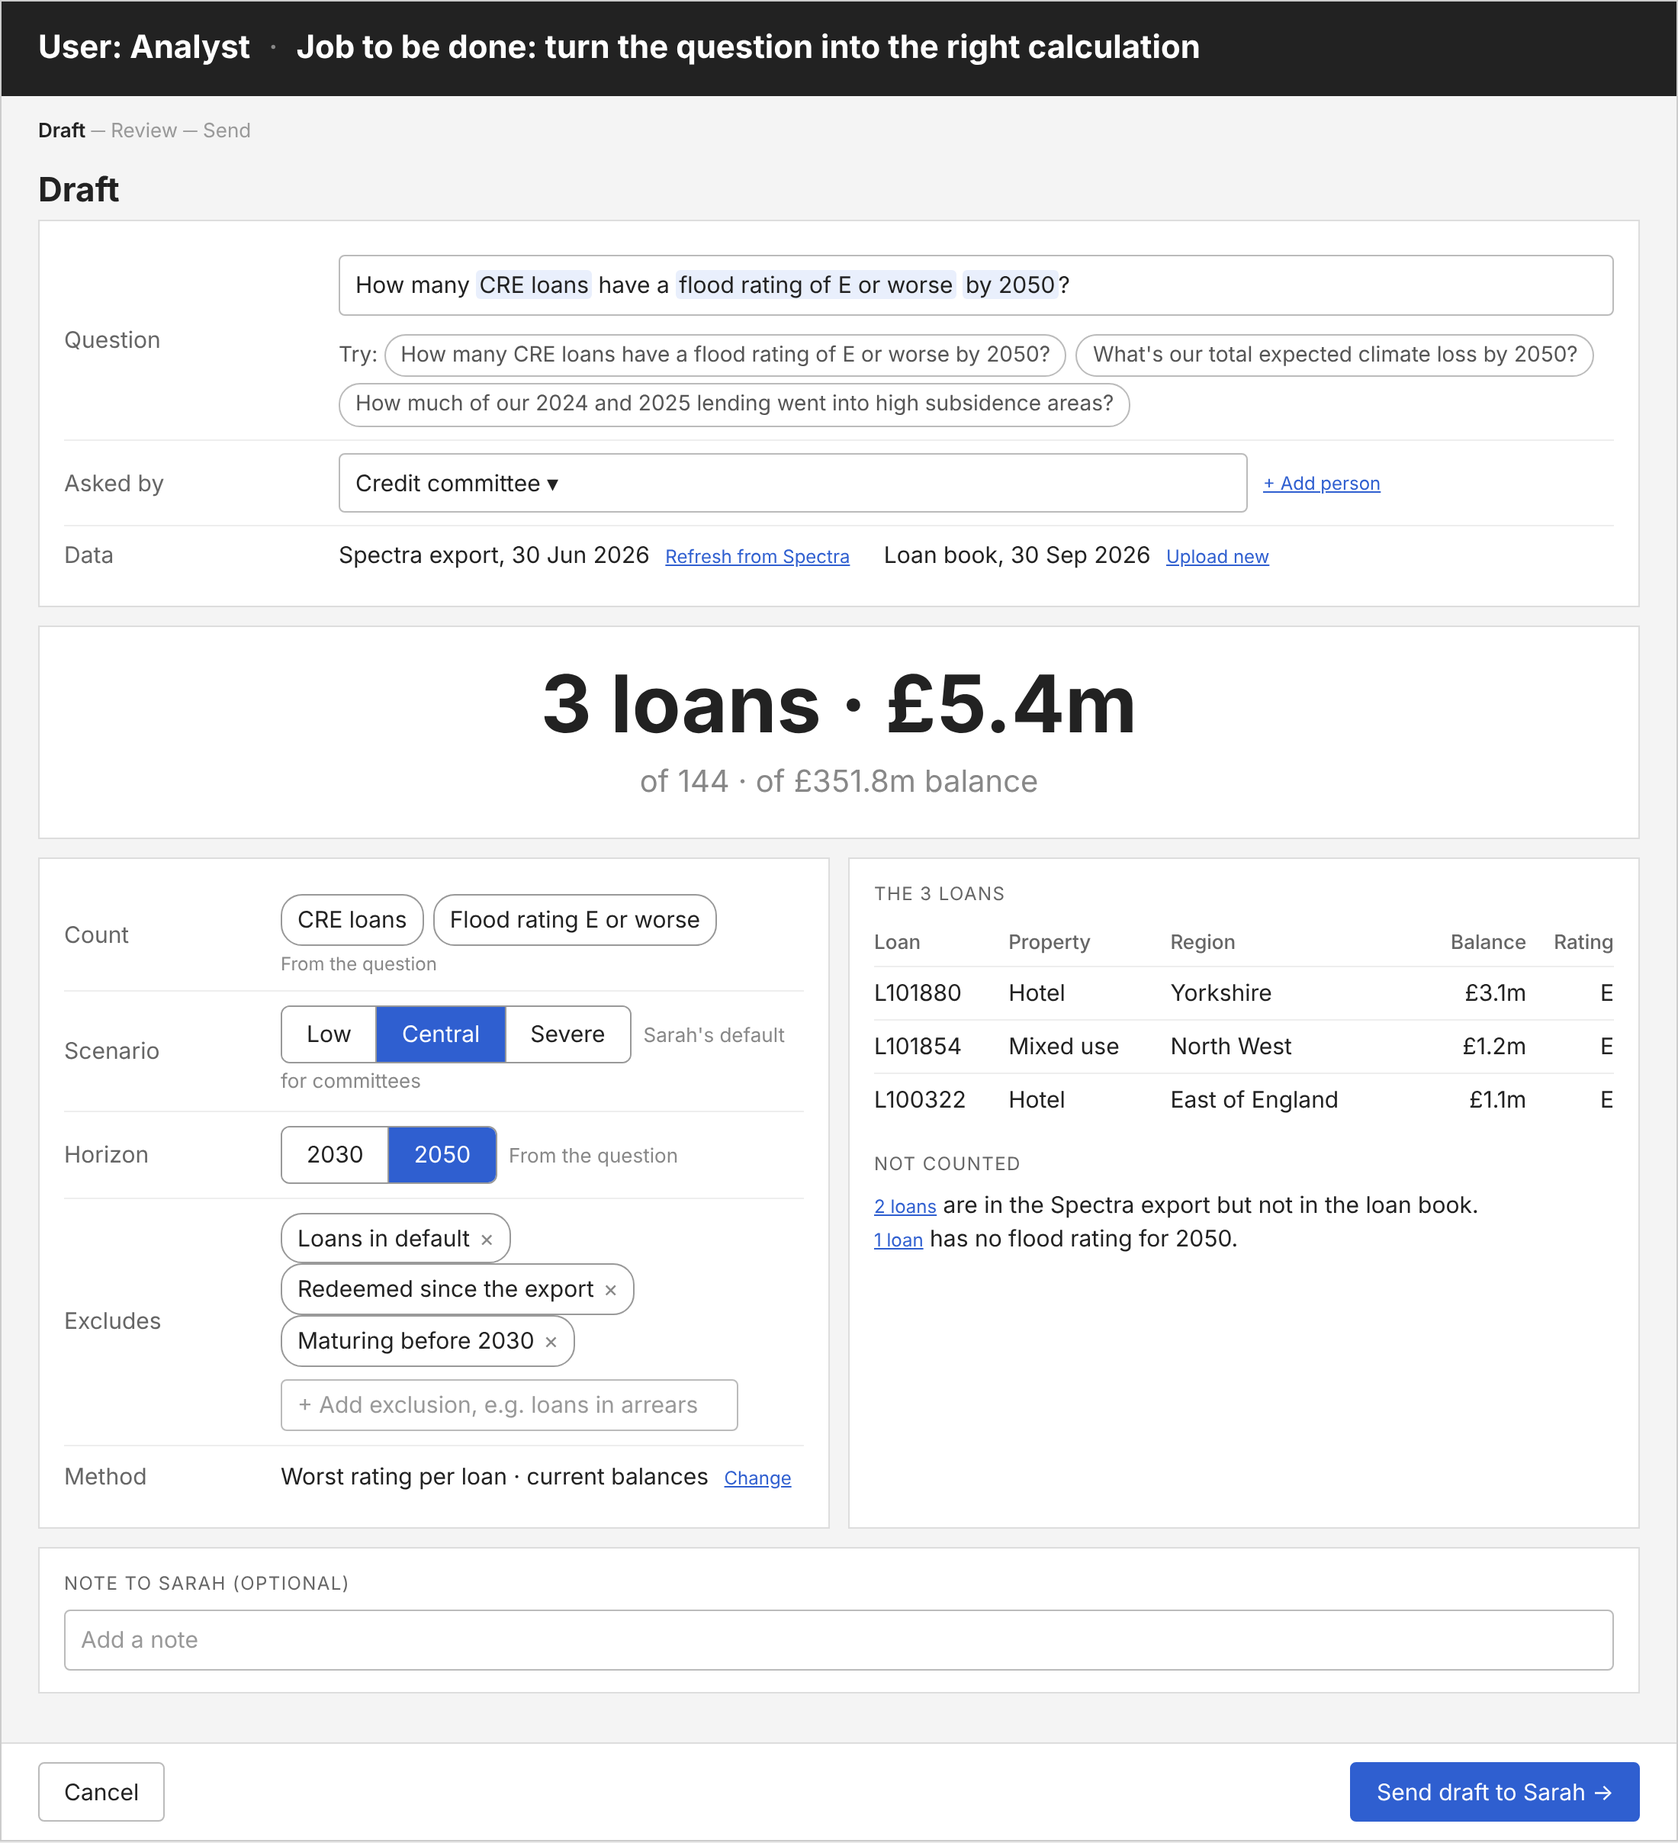
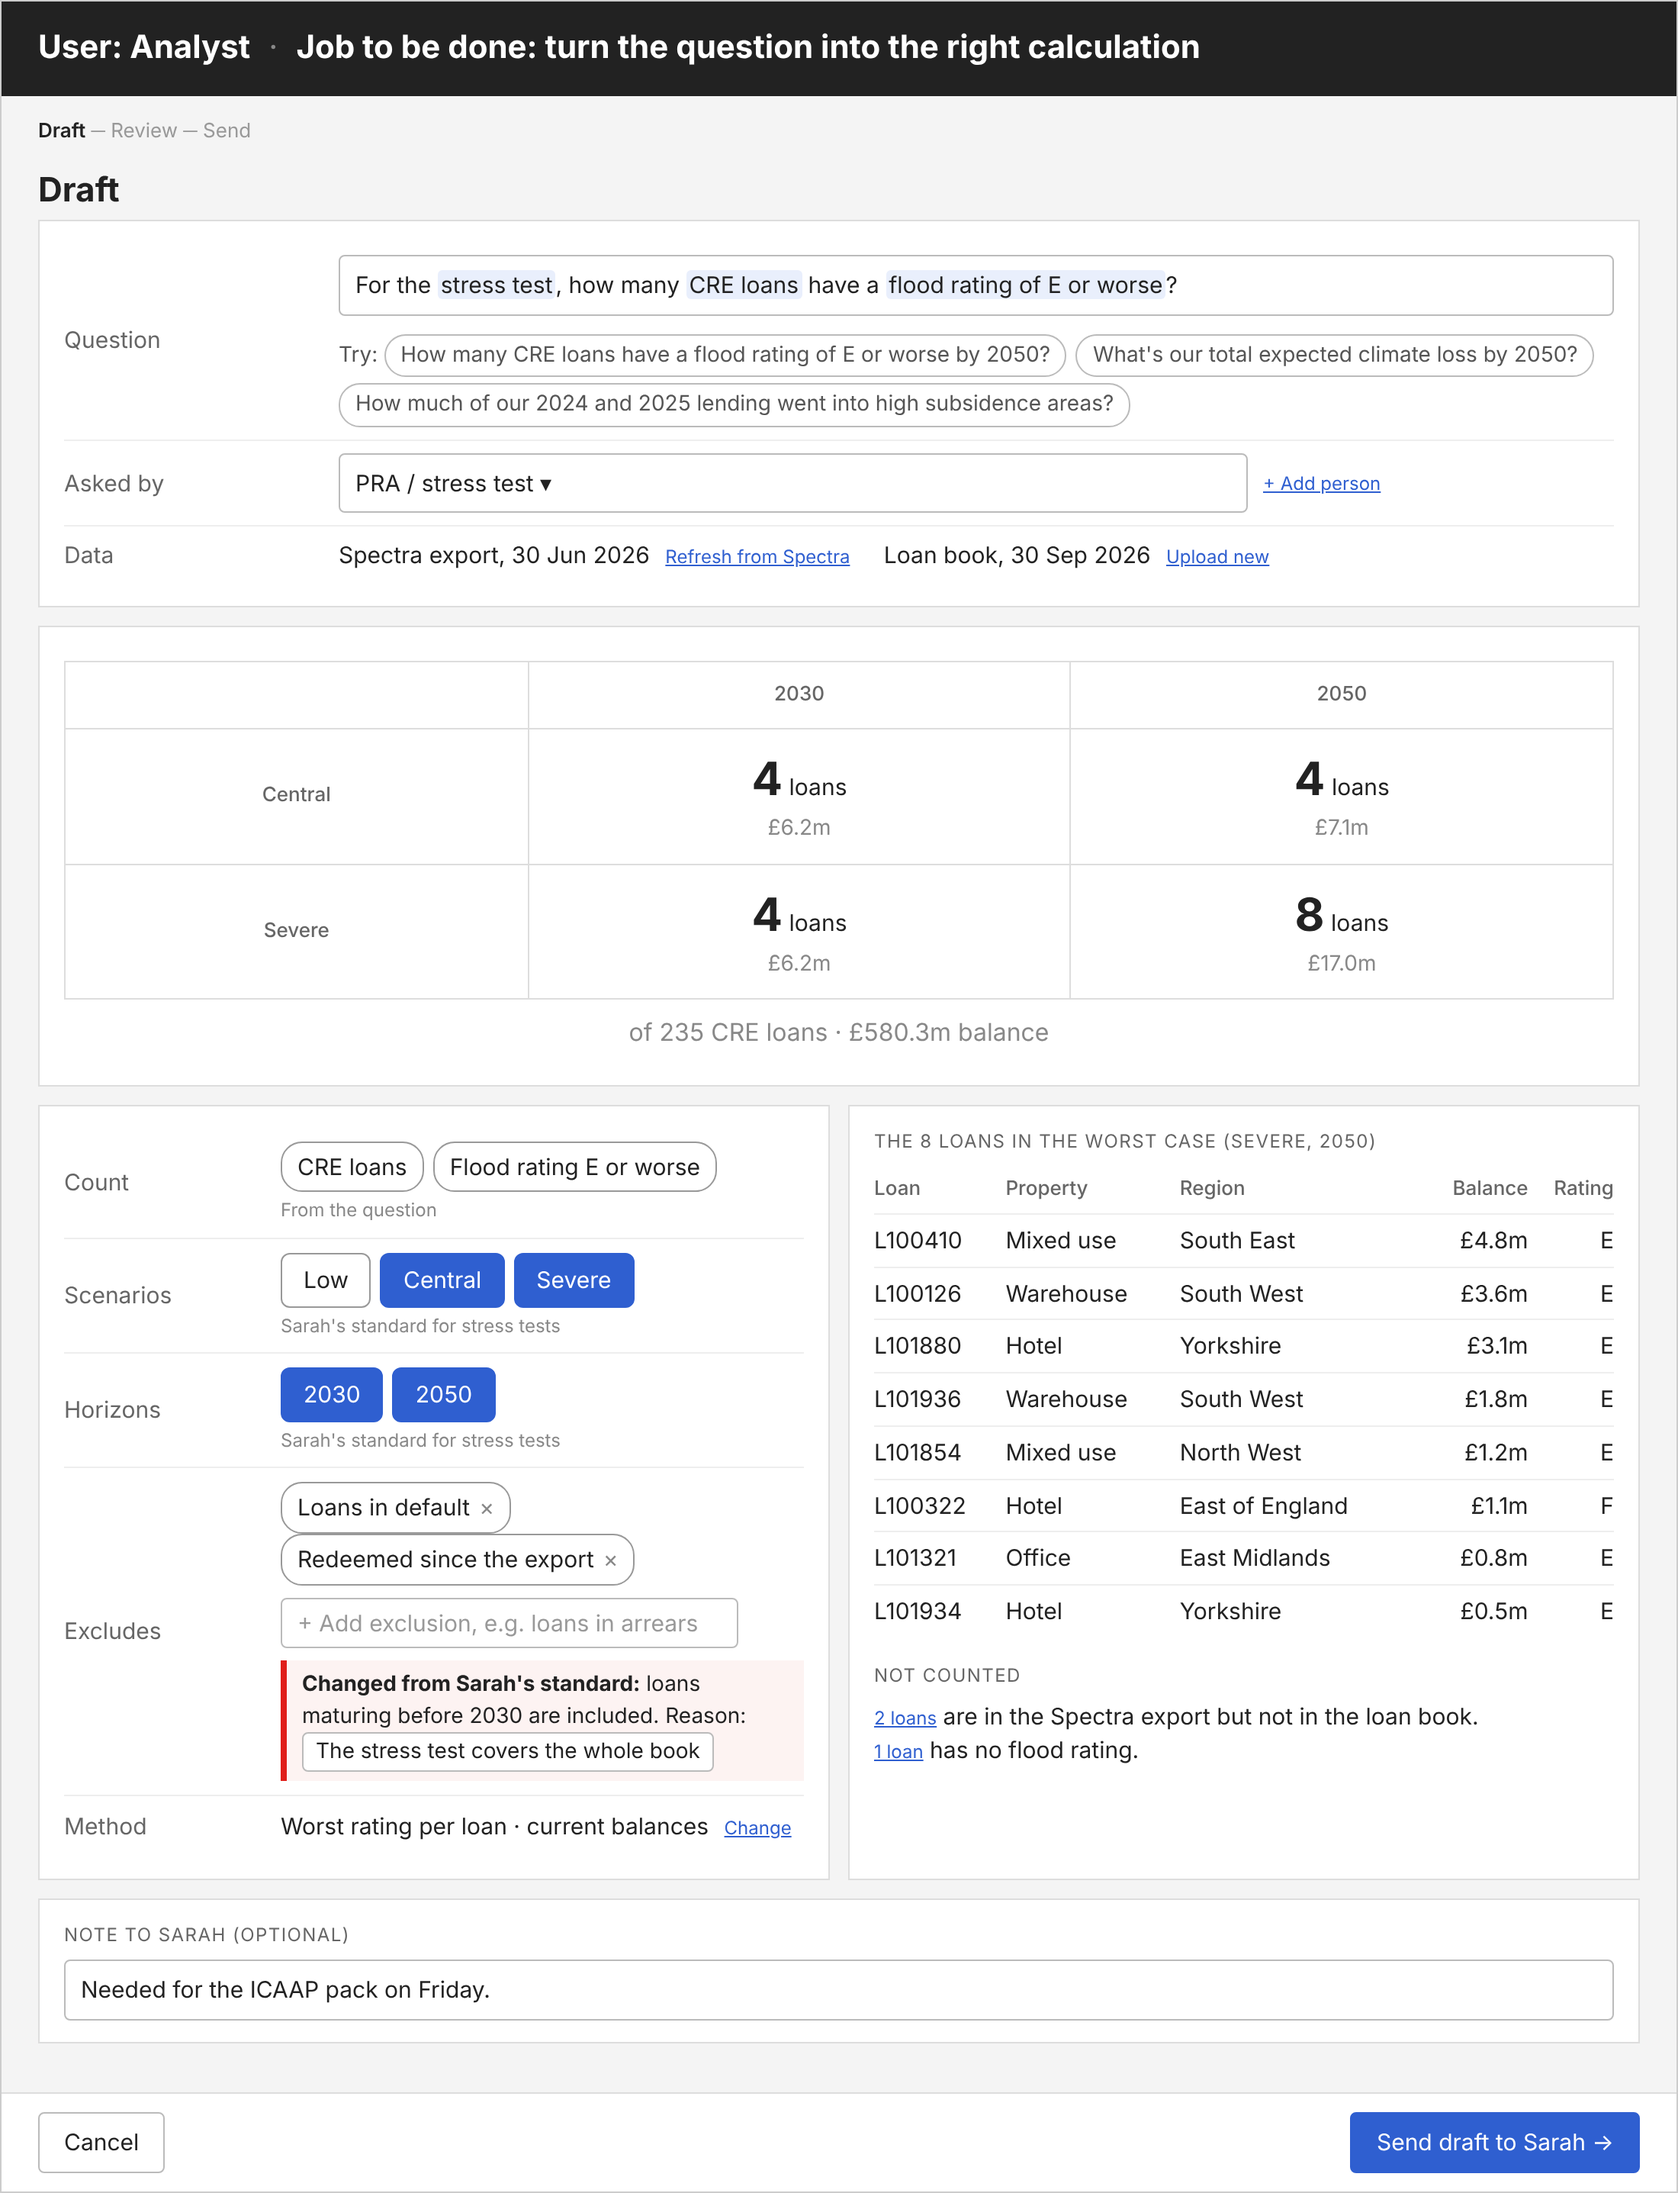
Run 1 solution design: one stress-test question through Draft, Review and Send
Claude-Session: https://claude.ai/code/session_016JoguXTxkWcj5knaYbAtMZ

diff --git a/runs/run-1/design/solution-design.html b/runs/run-1/design/solution-design.html
@@ -44,6 +44,8 @@ th{text-align:left;font-weight:500;color:var(--mid);font-size:13px;padding:6px 0
 .sarah{background:#fff;border:2px solid #222}.sarah .hello{font-size:28px;font-weight:700;margin-bottom:12px}
 .att{border-left:5px solid #e01e1a;background:#fdf3f2;padding:12px 16px;margin-bottom:12px}.att li{margin:6px 0}
 .grid2{border-collapse:collapse;margin:0 auto}.grid2 th,.grid2 td{padding:12px 28px;text-align:center;border:1px solid #ddd}.grid2 td b{font-size:30px}.grid2 .s{color:#888;font-size:14px}
+.seg2{display:inline-flex;gap:6px}.seg2 span{padding:6px 14px;border:1px solid #999;border-radius:6px;background:#fff}.seg2 .on{background:var(--acc);color:#fff;border-color:var(--acc)}
+.flag{display:block;margin-top:8px;border-left:4px solid #e01e1a;background:#fdf3f2;padding:6px 10px;font-size:14px}
 </style></head><body>
 
 <div class="screen" id="draft">
@@ -51,30 +53,30 @@ th{text-align:left;font-weight:500;color:var(--mid);font-size:13px;padding:6px 0
 <div class="steps"><span class="on">Draft</span> ─ Review ─ Send</div>
 <div class="body"><h1>Draft</h1>
 <div class="card">
- <div class="row"><div class="k">Question</div><div style="grid-column:2/4"><div class="input">How many <span class="hl">CRE loans</span> have a <span class="hl">flood rating of E or worse</span> <span class="hl">by 2050</span>?</div>
+ <div class="row"><div class="k">Question</div><div style="grid-column:2/4"><div class="input">For the <span class="hl">stress test</span>, how many <span class="hl">CRE loans</span> have a <span class="hl">flood rating of E or worse</span>?</div>
   <div class="qx">Try: <span>How many CRE loans have a flood rating of E or worse by 2050?</span><span>What's our total expected climate loss by 2050?</span><span>How much of our 2024 and 2025 lending went into high subsidence areas?</span></div></div></div>
- <div class="row"><div class="k">Asked by</div><div class="input">Credit committee ▾</div><div class="src">+ Add person</div></div>
+ <div class="row"><div class="k">Asked by</div><div class="input">PRA / stress test ▾</div><div class="src">+ Add person</div></div>
  <div class="row"><div class="k">Data</div><div style="grid-column:2/4">Spectra export, 30 Jun 2026 <span class="src" style="margin:0 18px 0 6px">Refresh from Spectra</span> Loan book, 30 Sep 2026 <span class="src" style="margin-left:6px">Upload new</span></div></div>
 </div>
-<div class="card out"><div class="kn" style="font-size:52px">3 loans · £5.4m</div><div class="ks" style="margin-top:8px">of 144 · of £351.8m balance</div></div>
+<div class="card out"><table class="grid2"><tr><th></th><th>2030</th><th>2050</th></tr>
+  <tr><th>Central</th><td><b>4</b> loans<div class="s">£6.2m</div></td><td><b>4</b> loans<div class="s">£7.1m</div></td></tr>
+  <tr><th>Severe</th><td><b>4</b> loans<div class="s">£6.2m</div></td><td><b>8</b> loans<div class="s">£17.0m</div></td></tr></table>
+ <div class="ks" style="margin-top:10px;font-size:16px">of 235 CRE loans · £580.3m balance</div></div>
 <div class="cols2">
  <div class="card">
   <div class="ctl"><div class="k">Count</div><div><span class="chip">CRE loans</span><span class="chip">Flood rating E or worse</span><span class="src2">From the question</span></div></div>
-  <div class="ctl"><div class="k">Scenario</div><div><span class="seg"><span>Low</span><span class="on">Central</span><span>Severe</span></span><span class="mini">Sarah's default for committees</span></div></div>
-  <div class="ctl"><div class="k">Horizon</div><div><span class="seg"><span>2030</span><span class="on">2050</span></span><span class="mini">From the question</span></div></div>
-  <div class="ctl"><div class="k">Excludes</div><div><span class="chip">Loans in default<i>×</i></span><span class="chip">Redeemed since the export<i>×</i></span><span class="chip">Maturing before 2030<i>×</i></span><br><span class="input" style="display:inline-block;margin-top:8px;padding:5px 10px;color:#999;min-width:300px">+ Add exclusion, e.g. loans in arrears</span></div></div>
+  <div class="ctl"><div class="k">Scenarios</div><div><span class="seg2"><span>Low</span><span class="on">Central</span><span class="on">Severe</span></span><span class="src2">Sarah's standard for stress tests</span></div></div>
+  <div class="ctl"><div class="k">Horizons</div><div><span class="seg2"><span class="on">2030</span><span class="on">2050</span></span><span class="src2">Sarah's standard for stress tests</span></div></div>
+  <div class="ctl"><div class="k">Excludes</div><div><span class="chip">Loans in default<i>×</i></span><span class="chip">Redeemed since the export<i>×</i></span><br><span class="input" style="display:inline-block;margin-top:8px;padding:5px 10px;color:#999;min-width:300px">+ Add exclusion, e.g. loans in arrears</span>
+   <span class="flag"><b>Changed from Sarah's standard:</b> loans maturing before 2030 are included. Reason: <span class="input" style="display:inline-block;padding:2px 8px">The stress test covers the whole book</span></span></div></div>
   <div class="ctl"><div class="k">Method</div><div>Worst rating per loan · current balances <span class="src" style="margin-left:6px">Change</span></div></div>
  </div>
- <div class="card"><div class="lbl">The 3 loans</div><table>
-  <tr><th>Loan</th><th>Property</th><th>Region</th><th style="text-align:right">Balance</th><th style="text-align:right">Rating</th></tr>
-  <tr><td>L101880</td><td>Hotel</td><td>Yorkshire</td><td class="r">£3.1m</td><td class="r">E</td></tr>
-  <tr><td>L101854</td><td>Mixed use</td><td>North West</td><td class="r">£1.2m</td><td class="r">E</td></tr>
-  <tr><td>L100322</td><td>Hotel</td><td>East of England</td><td class="r">£1.1m</td><td class="r">E</td></tr></table>
+ <div class="card"><div class="lbl">The 8 loans in the worst case (severe, 2050)</div><table><tr><th>Loan</th><th>Property</th><th>Region</th><th style="text-align:right">Balance</th><th style="text-align:right">Rating</th></tr><tr><td>L100410</td><td>Mixed use</td><td>South East</td><td class="r">£4.8m</td><td class="r">E</td></tr><tr><td>L100126</td><td>Warehouse</td><td>South West</td><td class="r">£3.6m</td><td class="r">E</td></tr><tr><td>L101880</td><td>Hotel</td><td>Yorkshire</td><td class="r">£3.1m</td><td class="r">E</td></tr><tr><td>L101936</td><td>Warehouse</td><td>South West</td><td class="r">£1.8m</td><td class="r">E</td></tr><tr><td>L101854</td><td>Mixed use</td><td>North West</td><td class="r">£1.2m</td><td class="r">E</td></tr><tr><td>L100322</td><td>Hotel</td><td>East of England</td><td class="r">£1.1m</td><td class="r">F</td></tr><tr><td>L101321</td><td>Office</td><td>East Midlands</td><td class="r">£0.8m</td><td class="r">E</td></tr><tr><td>L101934</td><td>Hotel</td><td>Yorkshire</td><td class="r">£0.5m</td><td class="r">E</td></tr></table>
   <div class="lbl" style="margin-top:16px">Not counted</div>
   <div><span class="src">2 loans</span> are in the Spectra export but not in the loan book.</div>
-  <div><span class="src">1 loan</span> has no flood rating for 2050.</div></div>
+  <div><span class="src">1 loan</span> has no flood rating.</div></div>
 </div>
-<div class="card"><div class="lbl">Note to Sarah (optional)</div><div class="input" style="color:#999">Add a note</div></div>
+<div class="card"><div class="lbl">Note to Sarah (optional)</div><div class="input">Needed for the ICAAP pack on Friday.</div></div>
 </div>
 <div class="foot"><span class="btn">Cancel</span><span class="btn p">Send draft to Sarah →</span></div></div>
 <div class="screen" id="review">
@@ -102,10 +104,14 @@ th{text-align:left;font-weight:500;color:var(--mid);font-size:13px;padding:6px 0
 <div class="body"><h1>Send the answer</h1>
 <div class="q"><span class="tag" style="color:#2a7a3a;border-color:#2a7a3a">Approved by Sarah · 14:10</span></div>
 <div class="card">
- <div class="row"><div class="k">To</div><div class="input" style="grid-column:2/4">Credit committee</div></div>
- <div class="row"><div class="k">Subject</div><div class="input" style="grid-column:2/4">Re: CRE loans with a flood rating of E or worse by 2050</div></div>
- <div class="input" style="margin-top:10px;line-height:1.7">Hi all,<br><br>3 of our 144 commercial real estate loans (£5.4m of £351.8m balance) have a flood rating of E or worse by 2050 under the central climate scenario. Under the severe scenario it's 5 loans (£9.6m).<br><br>The loans and how they were counted are in the attached file.<br><br>Approved by Sarah Okafor, Head of Climate Risk.</div>
- <div style="margin-top:10px">Attached: <b>CRE flood E or worse 2050.xlsx</b></div></div>
+ <div class="row"><div class="k">To</div><div class="input" style="grid-column:2/4">PRA / stress test team</div></div>
+ <div class="row"><div class="k">Subject</div><div class="input" style="grid-column:2/4">Re: CRE loans with a flood rating of E or worse, stress test</div></div>
+ <div class="input" style="margin-top:10px;line-height:1.7">Hi all,<br><br>CRE loans with a flood rating of E or worse, out of 235 (£580.3m balance):<br>
+ <table style="width:auto;margin:6px 0 6px 0"><tr><th style="padding-right:30px"></th><th style="padding-right:30px">2030</th><th>2050</th></tr>
+ <tr><td style="padding-right:30px">Central</td><td style="padding-right:30px">4 loans, £6.2m</td><td>4 loans, £7.1m</td></tr>
+ <tr><td style="padding-right:30px">Severe</td><td style="padding-right:30px">4 loans, £6.2m</td><td>8 loans, £17.0m</td></tr></table>
+ This includes loans maturing before 2030, as the stress test covers the whole book. The loans and how they were counted are in the attached file.<br><br>Approved by Sarah Okafor, Head of Climate Risk.</div>
+ <div style="margin-top:10px">Attached: <b>CRE flood E or worse stress test.xlsx</b></div></div>
 </div>
-<div class="foot"><span class="btn">← Back</span><span class="btn p">Send</span></div></div>
+<div class="foot"><span></span><span class="btn p">Send</span></div></div>
 </body></html>

diff --git a/runs/run-1/solution-design.md b/runs/run-1/solution-design.md
@@ -3,9 +3,10 @@
 A report builder with Sarah's defaults, a method note it writes itself, her approval and a drafted reply. No AI in this version. Medium fidelity; numbers from the practice data and synthetic loan book. Source: `design/solution-design.html`.
 
 ## Walkthrough
-- **Analyst:** I've just received an email from the credit committee: "How many CRE loans have a flood rating of E or worse by 2050?" I paste it in and pick who asked. The scenario, year and exclusions are already set to Sarah's standard, and the answer is there: 3 loans, £5.4m. I check the loans behind it, try severe to see if it matters, add a note and send the draft to Sarah
-- **Sarah:** a draft is waiting. I read the question and the answer, glance at the loans and the method, and approve. If something's off, I change it or send it back with a comment
-- **Analyst:** it's approved. The reply and the file are drafted; I read it and send
+One question all the way through: "For the stress test, how many CRE loans have a flood rating of E or worse?"
+- **Analyst:** the stress-test team emails the question. I paste it in. It's read as CRE loans, flood E or worse; Sarah's stress-test standard fills in central and severe, 2030 and 2050. I see all four answers at once and the loans behind the worst case. The stress test covers the whole book, so I include loans maturing before 2030, give my reason, add a note and send the draft to Sarah
+- **Sarah:** a draft is waiting. What needs my attention comes first: the analyst changed my standard, and with it severe 2050 is 8 loans rather than 5. I check the table and approve
+- **Analyst:** it's approved. The reply with the table and the file are drafted; I send it
 
 ## Flow
 | Step | Who | Screen | Ends in |
@@ -29,7 +30,6 @@ Askers (CRO, committees, pricing, treasury, IR) never touch it: they email the q
 ## 2. Review the draft
 ![Review](design/review.png)
 
-Shown with the stress-test version of the question, which needs more than one scenario and year.
 - **Removes:** half a day of checking someone else's numbers
 - **Looks different from the draft:** addressed to Sarah, with what needs her attention first: changes from her standard (with their effect on the answer), flags and the analyst's note
 - **More than one scenario or year:** one answer with a small table (central and severe × 2030 and 2050), reviewed once and sent as one email
